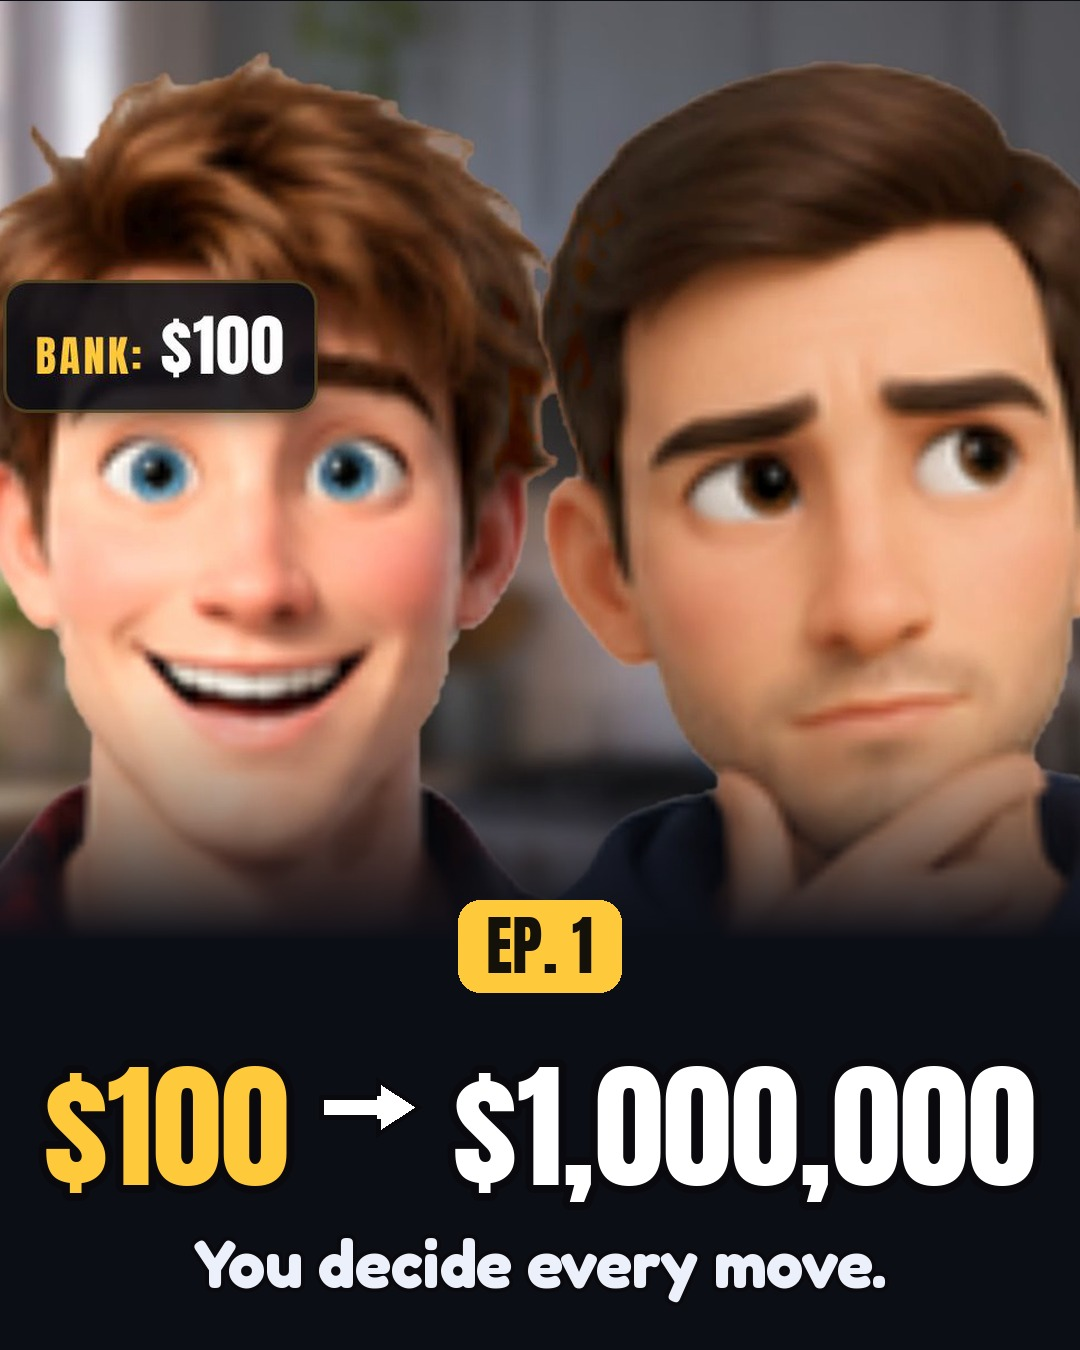
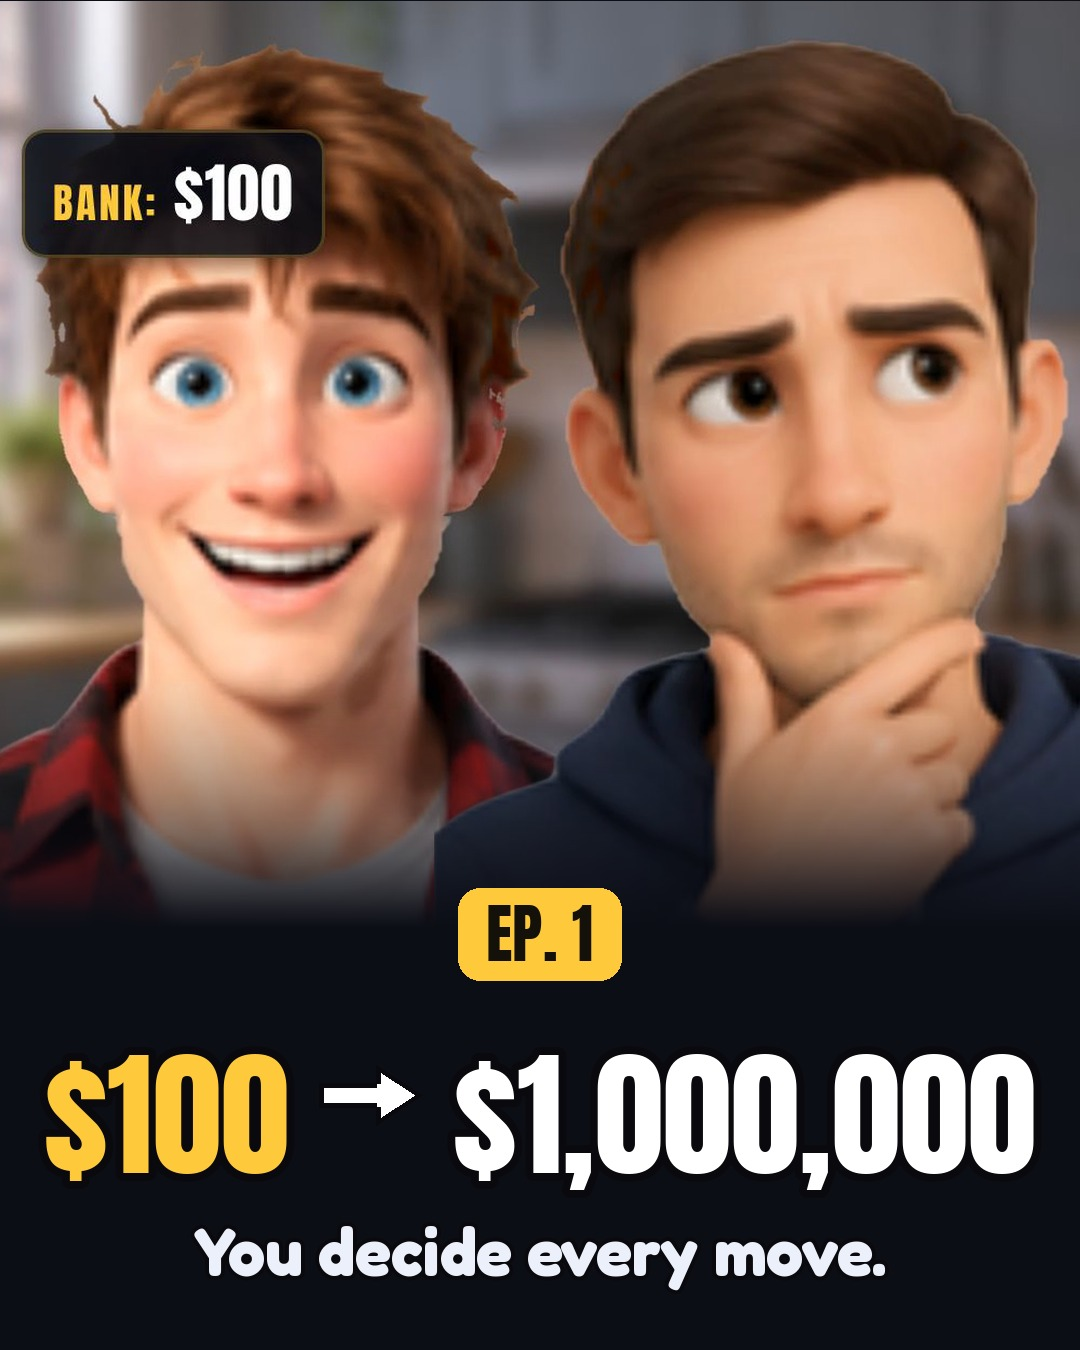
seri/bolum-001: youtube-paketleyici v2 — yeni render (83,2 sn, sha 23839dd0b183) için kapaklar 81,00 sn, IG kapak karesi, sha/süre dosya kontrolü, anonim satırı politika §4 biçimine eşitlendi (incil + metin §6), dry-run 0 hata
Claude-Session: https://claude.ai/code/session_019bCNGEBBQaepmiQNuPNZwX

diff --git a/uretim/seri/bolum-001/paket/paket-uret.py b/uretim/seri/bolum-001/paket/paket-uret.py
@@ -30,7 +30,8 @@ IG_ACIKLAMA = "\n".join([
     "Bike, dresser, or mystery box? You pick our first flip.",
     "Jake & Mike have $100 and one goal: $1,000,000. Every episode, the comments decide the next move.",
     SORU, "", ANONIM, "", POLITIKA, "", "#flipbyvote #animatedseries #sidehustle #flipping #youdecide"])
-IG_KAPAK_SN = 81.6  # yüklenen kapak bu kareden; uygulamada kare seçilirse aynı an (1:21)
+IG_KAPAK_SN = 81.0  # kare 2430 (koordinatör kapak kararı); yüklenen kapak bu kareden; uygulamada kare seçilirse 1:21
+VIDEO_SHA12, VIDEO_SURE = "23839dd0b183", 83.2  # yeniden render 2026-11-11
 IG_SABIT_YORUM = PIN_YORUM
 
 # ---- TikTok ----
@@ -79,6 +80,17 @@ def kontrol():
     if len(IG_ACIKLAMA) > 2200: h.append("IG açıklama > 2200")
     if len(TT_ACIKLAMA) > 2200: h.append("TikTok açıklama > 2200 (güvenli sınır)")
     if IG_ACIKLAMA.count("#") > 5 or TT_ACIKLAMA.count("#") > 5: h.append("hashtag > 5")
+    # dosya kontrolü: paket doğru videoya bağlı mı
+    import hashlib, subprocess
+    vy = os.path.join(TESLIM, "bolum-001.mp4")
+    if not os.path.isfile(vy): h.append("video yok")
+    else:
+        sha = hashlib.sha256(open(vy, "rb").read()).hexdigest()[:12]
+        if sha != VIDEO_SHA12: h.append(f"video sha {sha} ≠ {VIDEO_SHA12}")
+        sure = float(subprocess.run(["ffprobe", "-v", "error", "-show_entries", "format=duration", "-of", "csv=p=0", vy],
+                                    capture_output=True, text=True).stdout)
+        if abs(sure - VIDEO_SURE) > 0.05: h.append(f"video süresi {sure:.2f} ≠ {VIDEO_SURE}")
+        if not 0 < IG_KAPAK_SN < sure: h.append("kapak karesi video dışında")
     # videodaki soru = paketteki soru (metin B01+B02)
     bt = open(os.path.join(BOL, "bolum.txt"), encoding="utf-8").read()
     for parca in ("Bike, dresser, or mystery box?", "Tell us in the comments."):
@@ -97,7 +109,7 @@ def main():
           "oynatma_listesi_id": None, "onay": {"niyazi_onayi": False, "tarih": None},
           "_not": ("yayin_zamani YER TUTUCU: Niyazi onayında belirlenir. Öneri 12:00 ET = 17:00Z = 20:00 TSİ (EST −05:00, 2026-11-01 sonrası). "
                    "sentetik_medya=true: politika-format.md §3 kararı (altered/synthetic = Yes). cocuklara_ozel=false zorunlu (§0 koşul 2). "
-                   "Kaynak: paket/paket-uret.py; elle düzenleme yok.")}
+                   f"Video {VIDEO_SURE} sn, sha256 {VIDEO_SHA12}. Kaynak: paket/paket-uret.py; elle düzenleme yok.")}
     json.dump(yp, open(os.path.join(TESLIM, "yayin-paketi.json"), "w", encoding="utf-8"), ensure_ascii=False, indent=2)
     kp = {"aciklama": KANAL_ACIKLAMA, "anahtar_kelimeler": KANAL_KELIME, "varsayilan_dil": "en", "ulke": "TR",
           "oynatma_listeleri": [LISTE], "fragman_video_id": None, "banner_metni": BANNER,
@@ -110,11 +122,12 @@ def main():
     sys.path.insert(0, os.path.join(KOK, "tools/yayin")); km = importlib.util.module_from_spec(sp); sp.loader.exec_module(km)
     h += [f"kanal.py: {x}" for x in km.dogrula(kp, None)]
     md = ["# Bölüm 001 · platform metinleri (betik çıktısı: paket/paket-uret.py — elle düzenleme yok)", "",
+          f"Video: `bolum-001.mp4` · {VIDEO_SURE} sn · 1080x1920 · sha256 {VIDEO_SHA12}", "",
           f"## YouTube Shorts\nBaşlık ({len(YT_BASLIK)} krk):\n```\n{YT_BASLIK}\n```\nAçıklama ({len(YT_ACIKLAMA)} krk):\n```\n{YT_ACIKLAMA}\n```",
           f"Etiketler: `{', '.join(YT_ETIKET)}` · Kategori 24 Entertainment · made for kids: No · altered/synthetic: Yes · dil en",
           f"\nSabit yorum (yayından sonra; Studio/uygulamada sabitlenir):\n```\n{PIN_YORUM}\n```",
           f"\n## Instagram Reels\nAçıklama ({len(IG_ACIKLAMA)}/2200 krk):\n```\n{IG_ACIKLAMA}\n```",
-          f"Kapak: `kapak-1080x1920.jpg` yükle (kaynak kare {IG_KAPAK_SN} sn = 1:21); profil ızgarası kırpımı: `kapak-1080x1350.jpg`.",
+          f"Kapak: `kapak-1080x1920.jpg` yükle (kaynak kare {IG_KAPAK_SN:.2f} sn = kare {round(IG_KAPAK_SN*30)} = 1:21; uygulamada kare seçilirse 1:21); profil ızgarası kırpımı: `kapak-1080x1350.jpg`.",
           "AI etiketi (\"AI info\"): AÇIK (politika §3).",
           f"\nSabit yorum (ilk yorum olarak yazılır ve sabitlenir):\n```\n{IG_SABIT_YORUM}\n```",
           f"\n## TikTok\nAçıklama ({len(TT_ACIKLAMA)} krk):\n```\n{TT_ACIKLAMA}\n```",

diff --git a/uretim/seri/bolum-001/paket/rapor.md b/uretim/seri/bolum-001/paket/rapor.md
@@ -1,11 +1,12 @@
 # Bölüm 001 paket raporu (youtube-paketleyici, 2026-11-11)
-İLERLEME: tamam · **SONUÇ: GEÇTİ**
+İLERLEME: tamam · **SONUÇ: GEÇTİ** · v2 (yeniden render 83,2 sn, sha 23839dd0b183; kapak karesi 81,00 sn = kare 2430, koordinatör kararı; alternatif 0,10 sn)
 | Kapı | Komut → sonuç |
 |---|---|
 | Paket kapısı (politika satırları birebir ×4, yasak kalıp, sınırlar, kanal.py dogrula) | `python3 uretim/seri/bolum-001/paket/paket-uret.py` → 0 hata; negatif test (satır eksik + "drops tomorrow" + 61 krk) 4/4 yakalandı |
 | YouTube dry-run | `python3 tools/yayin/yukle.py uretim/seri/bolum-001/teslim/yayin-paketi.json --dry-run` → 0 hata, 1 uyarı (yayin_zamani yok = yer tutucu); planlı kopya (12:00 ET) → 0 hata, publishAt 17:00Z |
-| Kapak determinizmi | `kapak.py bolum-001.mp4 81.6 20 860 … --olcek 1.12` 2 koşu → sha256 5ef165ca582b aynı; video sha256 8588a182aeba |
-| Kapak güvenli alanı | metin alt sınırı 1597 ≤ 1615 (4:5 y 285–1635; 3:4 y 240–1680 kapsar); 200 px ızgara önizlemesinde "$100 → $1,000,000" okunur |
+| Dosya kontrolü (paket-uret) | video sha256 23839dd0b183 + süre 83,2 ± 0,05 + kapak karesi video içinde; negatif test (eski sha/85 sn/90 sn) 3/3 yakalandı |
+| Kapak determinizmi | `kapak.py bolum-001.mp4 81.0 150 1010 … --olcek 1.08` 2 koşu → sha256 1e53e945aefe aynı |
+| Kapak güvenli alanı | metin alt sınırı 1585 ≤ 1615 (4:5 y 285–1635; 3:4 y 240–1680 kapsar); 200 px ızgara önizlemesinde "$100 → $1,000,000" okunur |
 
 ## Adaylar ve eleme
 **Başlık (YouTube Shorts, ≤60):**
@@ -16,7 +17,7 @@
 5. ✘ `$100, Three Flips, Zero Say: You Call It · Ep. 1`. Belirsiz, aranan ifade yok. Elendi.
 
 **Kapak karesi:**
-- ✔ **D (81,6 sn):** ikili portre, kameraya bakış. Mike sırıtıyor, Jake elini çenesine koymuş, ikisi zıt duyguda. Kart yok, aydınlık.
+- ✔ **81,00 sn (v2, koordinatör kararı; v1'de 81,6 sn):** ikili portre, kameraya bakış. Mike sırıtıyor, Jake elini çenesine koymuş, ikisi zıt duyguda. Kart yok, aydınlık.
 - A (79,0): aynı poz, ama karar kartının karartması yüzleri soluk bırakıyor. Elendi.
 - B (62,95): geniş plan, banknot görünüyor; yüzler 200 px ızgarada çok küçük kalıyor. Elendi.
 - C (0,4): kanal damgası ile kendi yazımız çakışıyor. Elendi.
@@ -30,10 +31,13 @@
 - Shorts paketinde thumbnail yok. yukle.py 1280x720 istiyor; Shorts'ta özel kapak API'den doğrulanmadı.
 - Profil önerisi: `GeciciLogo` (Kartlar.tsx) 800 px'e çevrildi (`profil.py`). Videodaki takip kartının avatarıyla aynı.
 
+## Anonim kalma satırı
+Politika §4 biçimi esas: seri-incili.md §6 (1 yer) ve metin.md §6 (3 yer) aynı ifadeye eşitlendi.
+
 ## Risk
 1. Yayın saati [T]: kanal verisi yok. 7 bölümde kanal-analisti verisiyle bakılmalı.
 2. Bölüm 2 üretimi 24 saatlik pencereyle aynı saate yetişmeyebilir; takvim kararı koordinatörde.
 3. Banner görseli yok, yalnız metni hazır. Eski TOONOMY banner'ı kaldırılmalı.
 
 ## Yeniden üretim
-`python3 uretim/seri/bolum-001/paket/paket-uret.py && python3 uretim/seri/bolum-001/paket/kapak.py uretim/seri/bolum-001/teslim/bolum-001.mp4 81.6 20 860 uretim/seri/bolum-001/teslim/kapak --olcek 1.12 && python3 uretim/seri/bolum-001/paket/profil.py uretim/kanal-kimligi/flipbyvote-profil-800.png`
+`python3 uretim/seri/bolum-001/paket/paket-uret.py && python3 uretim/seri/bolum-001/paket/kapak.py uretim/seri/bolum-001/teslim/bolum-001.mp4 81.0 150 1010 uretim/seri/bolum-001/teslim/kapak --olcek 1.08 && python3 uretim/seri/bolum-001/paket/profil.py uretim/kanal-kimligi/flipbyvote-profil-800.png`

diff --git a/uretim/seri/bolum-001/metin.md b/uretim/seri/bolum-001/metin.md
@@ -153,7 +153,7 @@ Kullanılan portreler: Jake 3 (düşünceli, sıcak gülümseme, endişeli), Mik
 Bike, dresser, or mystery box? You pick our first flip.
 Jake & Mike have $100 and one goal: $1,000,000. Every episode, the comments decide the next move.
 Bike, dresser, or mystery box? Tell us in the comments.
-We may feature your comment in the next episode. Prefer to stay anonymous? Just say so in your comment.
+We may show winning comments on screen with your username. Prefer to stay anonymous? Just say so in your comment.
 Fiction. Not financial advice. Voices and visuals are AI-generated.
 #flipbyvote #animatedseries #sidehustle #flipping #youdecide
 ```
@@ -161,14 +161,14 @@ Fiction. Not financial advice. Voices and visuals are AI-generated.
 ```
 Jake & Mike start with $100. The goal: $1,000,000. You decide every move.
 Episode 1: a road bike, a free dresser, or a mystery box of old games. Tell us in the comments.
-We may feature your comment in the next episode. Prefer to stay anonymous? Just say so in your comment.
+We may show winning comments on screen with your username. Prefer to stay anonymous? Just say so in your comment.
 Fiction. Not financial advice. Voices and visuals are AI-generated.
 #Shorts #flipbyvote #animation
 ```
 **TikTok**
 ```
 Bike, dresser, or mystery box? You pick our first flip. Ep. 1 of $100 → $1,000,000. Tell us in the comments.
-We may feature your comment in the next episode. Prefer to stay anonymous? Just say so in your comment.
+We may show winning comments on screen with your username. Prefer to stay anonymous? Just say so in your comment.
 Fiction. Not financial advice. Voices and visuals are AI-generated.
 #flipbyvote #animation #sidehustle #reselling #youdecide
 ```

diff --git a/uretim/seri/bolum-001/teslim/YAYIN.md b/uretim/seri/bolum-001/teslim/YAYIN.md
@@ -1,6 +1,6 @@
 # YAYIN — Flip By Vote · Bölüm 1 "Every Dollar We Have"
 
-Dosyalar (bu klasör): `bolum-001.mp4` (85 sn, 1080x1920) · `kapak-1080x1920.jpg` · `kapak-1080x1350.jpg` · `yayin-paketi.json` · `platform-metinleri.md` (kopyalanacak tüm metinler).
+Dosyalar (bu klasör): `bolum-001.mp4` (83,2 sn, 1080x1920, sha256 23839dd0b183) · `kapak-1080x1920.jpg` · `kapak-1080x1350.jpg` · `yayin-paketi.json` · `platform-metinleri.md` (kopyalanacak tüm metinler).
 YouTube yüklemesini biz yaparız. Instagram ve TikTok bağlanana kadar elle paylaşılır.
 
 ## Yayın saati önerisi: 12:00 ET (17:00 UTC, 20:00 Türkiye) — üç platformda aynı anda
@@ -21,7 +21,7 @@ YouTube yüklemesini biz yaparız. Instagram ve TikTok bağlanana kadar elle pay
 ## B. Bölüm 1 yayını
 3. **Bitmiş videoyu ve yayın saatini onayla.** Koordinatör pakete `onay.niyazi_onayi=true` ve `yayin_zamani`'nı yazar (ör. `2026-11-12T12:00:00-05:00`), sonra `yukle.py` ile planlı ve private yükler. Videodaki ayarlar: made for kids **Hayır** · altered/synthetic **Evet** · kategori Entertainment · dil en.
    - Planlı videoda Studio'da görünürlük ve plan alanına **dokunma**.
-   - Shorts kapağı: API ile yüklenen Short'ta kareyi YouTube seçer. Uygulamada kare seçimi açılırsa **1:21**'i seç [doğrulanmadı].
+   - Shorts kapağı: API ile yüklenen Short'ta kareyi YouTube seçer. Uygulamada kare seçimi açılırsa **1:21** (81,00 sn, kare 2430; alternatif 0:00, 0,10 sn)'i seç [doğrulanmadı].
 4. **Instagram Reels** (aynı saatte, elle):
    - Video: `bolum-001.mp4`
    - Açıklama: `platform-metinleri.md` → Instagram

diff --git a/uretim/seri/seri-incili.md b/uretim/seri/seri-incili.md
@@ -119,7 +119,7 @@ Sezon finali: 1 milyona ulaşmak yerine büyük fırsat + çözülmemiş kriz (P
   - Karakterler kararı bir replikle kabul eder ("Okay. The bike it is."). Böylece izleyici kararının hikâyeyi değiştirdiğini duyar.
   - Kullanıcı adı uygunsuzsa ya da kişisel bilgi içeriyorsa kart "A viewer decided: …" olur.
 - Kazanan yoruma kısa yanıt (koordinatör/sistem, Niyazi kalıcı izni): "You're in Ep. N." gibi. Ödül, hediye ya da vaat yoktur.
-- Açıklamada ve bio'da şeffaflık ve vazgeçme satırı yer alır: "We may feature your comment in the next episode. Prefer to stay anonymous? Just say so in your comment." Anonim kalmak isteyen yazarın kartı "A viewer decided: …" olur.
+- Açıklamada ve bio'da şeffaflık ve vazgeçme satırı yer alır: "We may show winning comments on screen with your username. Prefer to stay anonymous? Just say so in your comment." Anonim kalmak isteyen yazarın kartı "A viewer decided: …" olur.
 
 ## 7. Seçenek dışı yaratıcı fikirler
 

diff --git a/uretim/seri/bolum-001/teslim/platform-metinleri.md b/uretim/seri/bolum-001/teslim/platform-metinleri.md
@@ -1,5 +1,7 @@
 # Bölüm 001 · platform metinleri (betik çıktısı: paket/paket-uret.py — elle düzenleme yok)
 
+Video: `bolum-001.mp4` · 83.2 sn · 1080x1920 · sha256 23839dd0b183
+
 ## YouTube Shorts
 Başlık (48 krk):
 ```
@@ -38,7 +40,7 @@ Fiction. Not financial advice. Voices and visuals are AI-generated.
 
 #flipbyvote #animatedseries #sidehustle #flipping #youdecide
 ```
-Kapak: `kapak-1080x1920.jpg` yükle (kaynak kare 81.6 sn = 1:21); profil ızgarası kırpımı: `kapak-1080x1350.jpg`.
+Kapak: `kapak-1080x1920.jpg` yükle (kaynak kare 81.00 sn = kare 2430 = 1:21; uygulamada kare seçilirse 1:21); profil ızgarası kırpımı: `kapak-1080x1350.jpg`.
 AI etiketi ("AI info"): AÇIK (politika §3).
 
 Sabit yorum (ilk yorum olarak yazılır ve sabitlenir):
